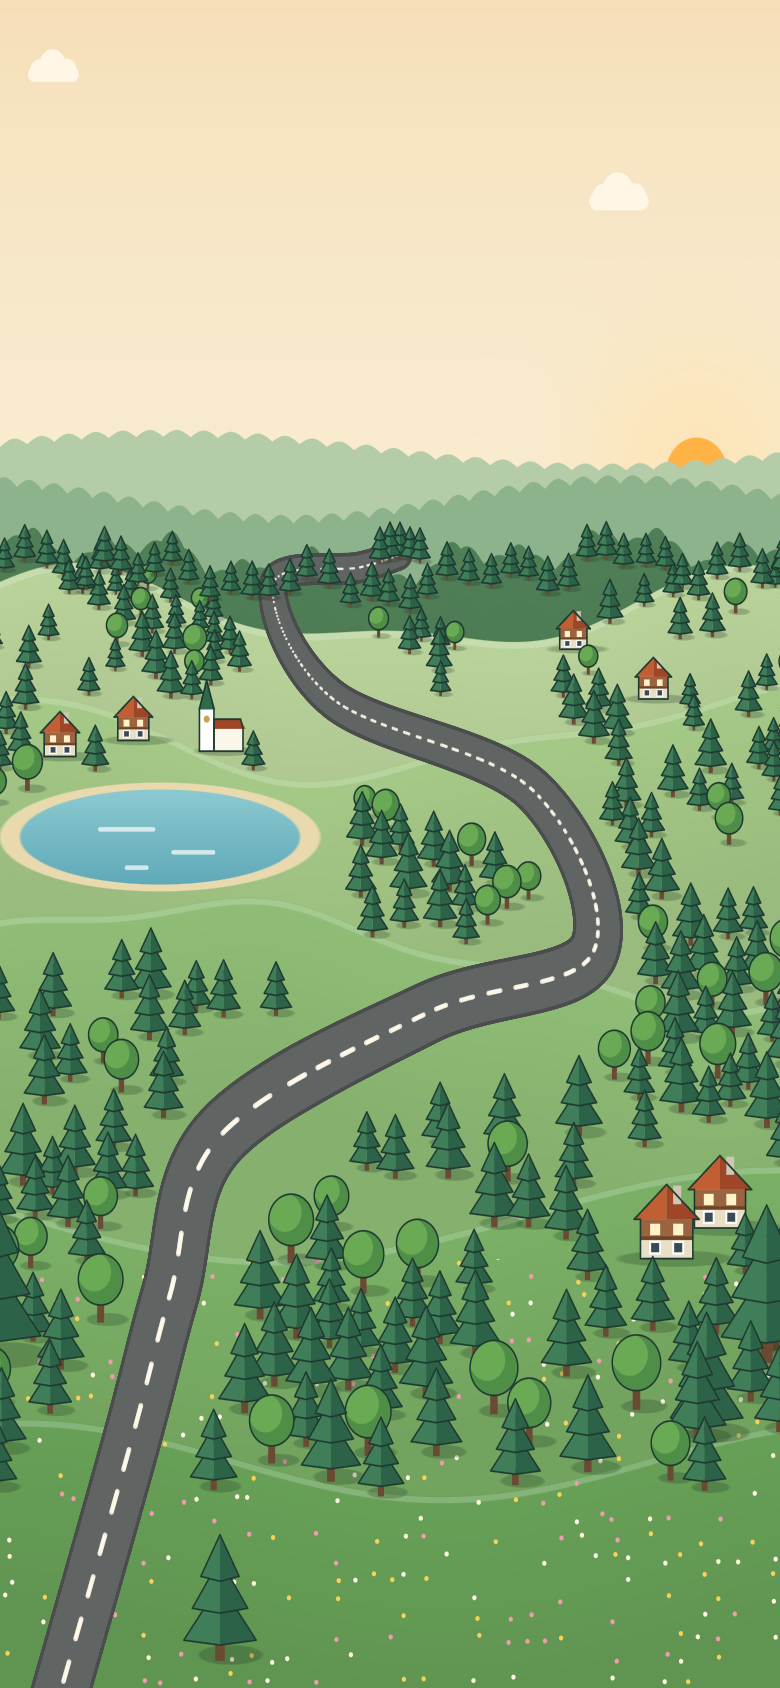
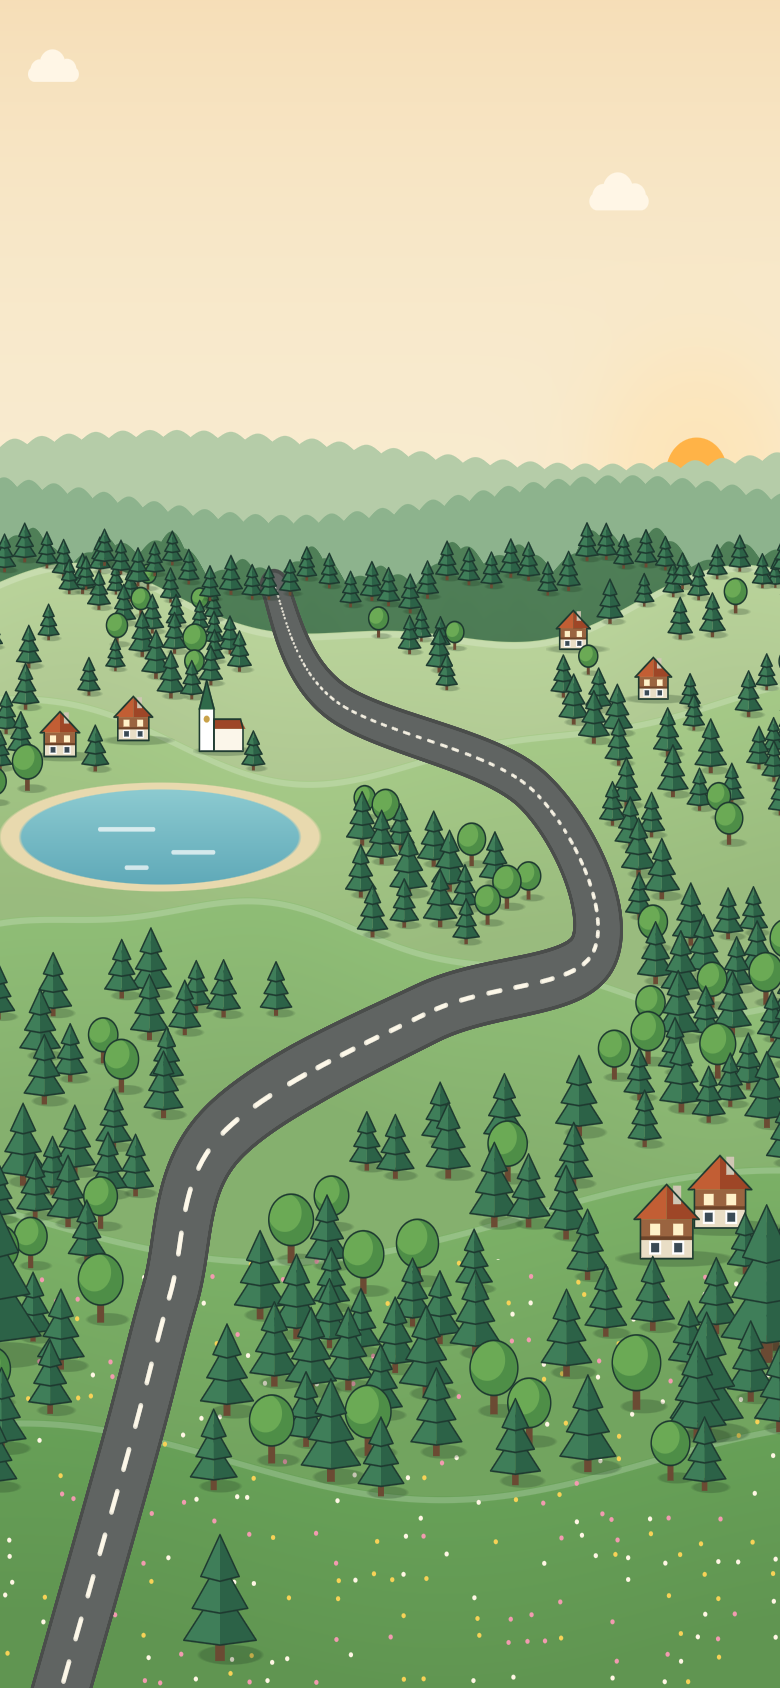
Map road ends at race 8; respawn oil check only 2 m ahead

diff --git a/Assets/Scripts/Editor/MapArtGenerator.cs b/Assets/Scripts/Editor/MapArtGenerator.cs
@@ -247,17 +247,13 @@ namespace SomeGame.EditorTools
             foreach (var (_, draw) in items) draw();
         }
 
-        // A row of small pines along the near forest edge; it also hides the end of the road, so the road
-        // seems to run on into the forest.
+        // A row of small pines along the near forest edge.
         static void HorizonTrees()
         {
             var rng = new System.Random(5);
             var trees = new List<Vector2>();
             for (float x = -20f; x < 1200f; x += 24f + (float)rng.NextDouble() * 10f)
                 trees.Add(new Vector2(x, Hill(0, x) - 26f - (float)rng.NextDouble() * 14f));
-            // A few extra right where the road ends.
-            Vector2 end = Unstretch(MapLayout.Samples[^1]);
-            for (int i = -2; i <= 2; i++) trees.Add(new Vector2(end.x + i * 15f, end.y - 4f - Mathf.Abs(i) * 3f));
             trees.Sort((a, b) => b.y.CompareTo(a.y));
             foreach (var t in trees) Pine(t, 0.42f + (float)rng.NextDouble() * 0.08f);
         }

diff --git a/Assets/Scripts/UI/MapLayout.cs b/Assets/Scripts/UI/MapLayout.cs
@@ -12,12 +12,12 @@ namespace SomeGame.UI
     {
         public static readonly Vector2 Size = new(1170f, 2532f);
 
-        // The road winds up from the bottom of the screen, past the race stops, into the forest.
+        // The road winds up from the bottom of the screen past the race stops and ends at the last one.
         // (The landscape picture is stretched upward by MapArtGenerator.Stretch; these points include it.)
         static readonly Vector2[] Points =
         {
             new(40f, -184f), new(190f, 345f), new(255f, 590f), new(330f, 828f), new(640f, 1012f), new(890f, 1104f),
-            new(800f, 1346f), new(500f, 1483f), new(410f, 1656f), new(540f, 1681f), new(600f, 1700f),
+            new(800f, 1346f), new(500f, 1483f), new(410f, 1656f),
         };
 
         /// <summary>Index into the control points of each stop: races 1-8 (a last stop past the races shows "more soon").</summary>

diff --git a/Assets/Scripts/Track/Track.cs b/Assets/Scripts/Track/Track.cs
@@ -211,7 +211,7 @@ namespace SomeGame.Track
         /// True if an oil puddle is under or just ahead of a car standing on the centre line at this lap
         /// distance (the car is wide and drives off forward, so its whole footprint and the next metres count).
         /// </summary>
-        public bool OilNear(float distance, float ahead = 6f, float carHalfWidth = 1.4f)
+        public bool OilNear(float distance, float ahead = 2f, float carHalfWidth = 1.4f)
         {
             foreach (var spot in layout.oil)
             {
